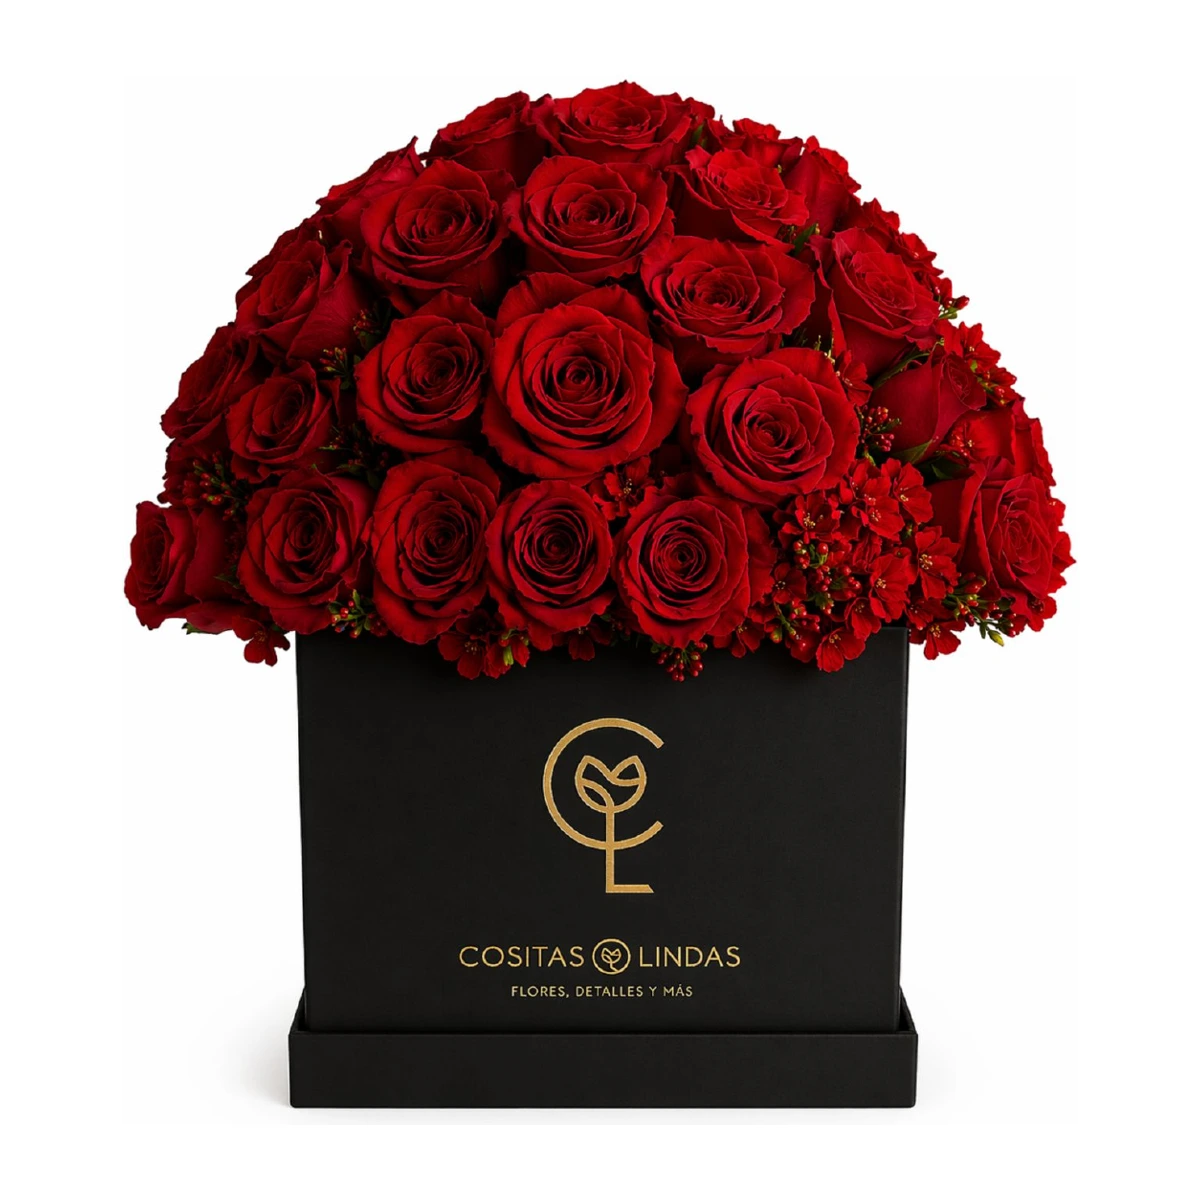
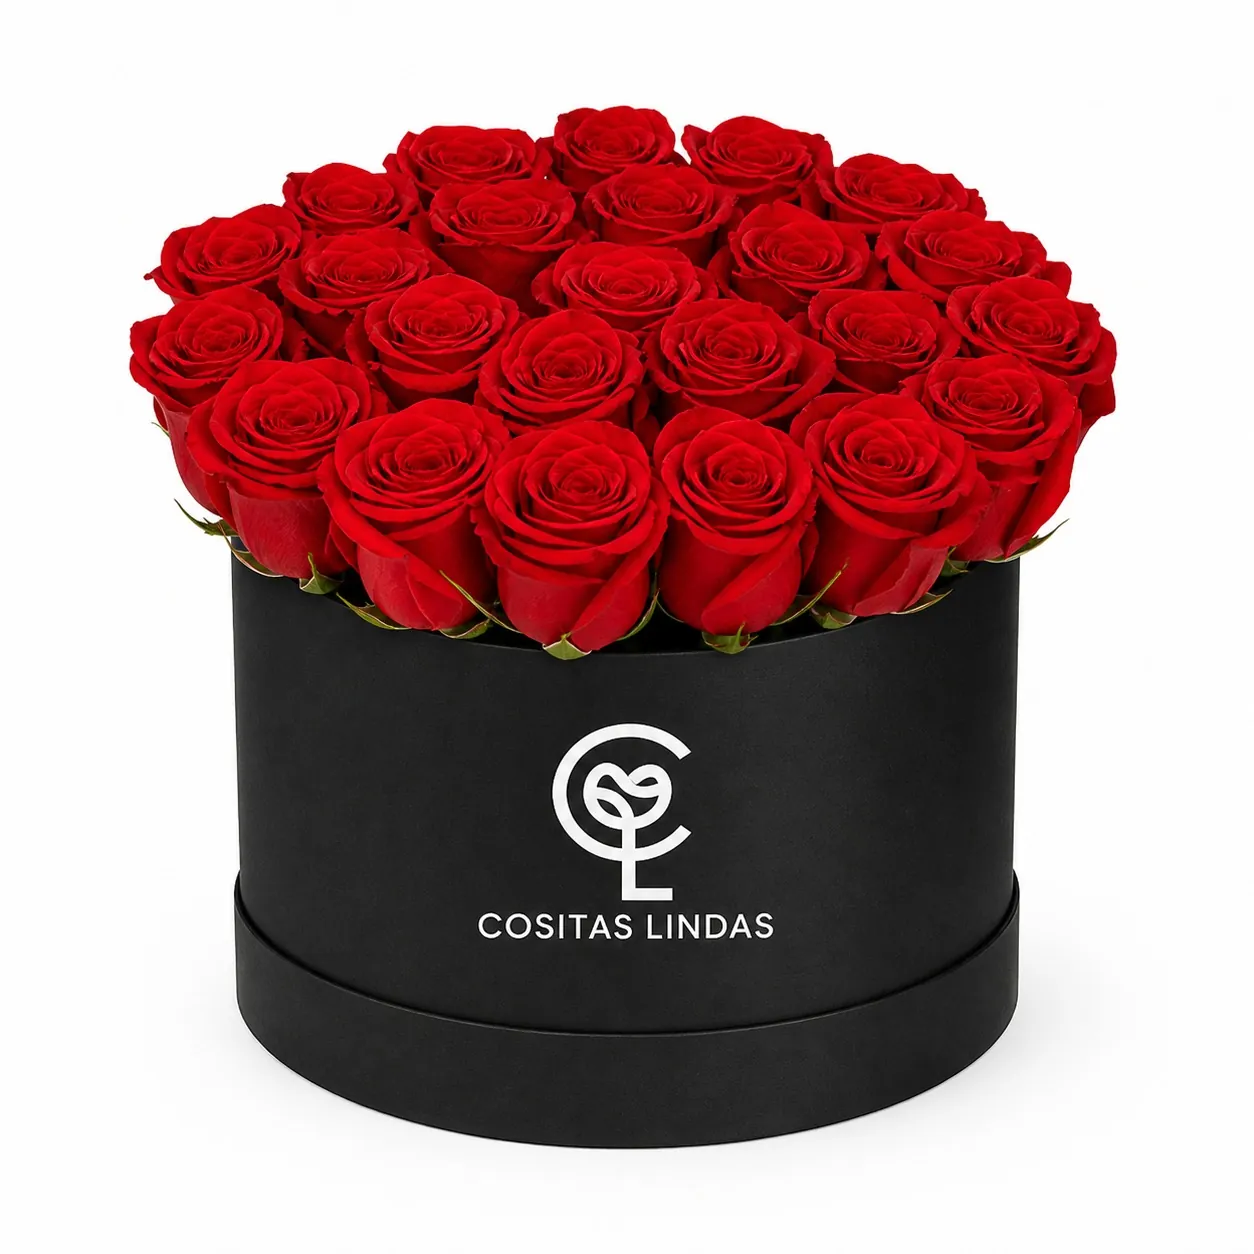
commit 02052026 - modificando imagen box 24 rosas y precio box 12 rosas

diff --git a/src/pages/Index.tsx b/src/pages/Index.tsx
@@ -94,7 +94,7 @@ const products: Product[] = [
   { id: "box-30-tul", name: "Box 30 Tulipanes", category: "Boxes", price: 350, description: "Impactante box con 30 tulipanes rojos llenos de vida.", image: box30Tul },
   { id: "box-radiante", name: "Box Radiante", category: "Boxes", price: 220, description: "Arreglo floral elegante con lirios frescos en tonos rosados, ideal para sorprender.", image: boxRadiante },
   { id: "box-15-gir", name: "Box 15 Girasoles", category: "Boxes", price: 120, description: "Box vibrante con girasoles frescos que transmiten alegría y energía.", image: box15Gir },
-  { id: "box-12-rosas", name: "Box 12 Rosas", category: "Boxes", price: 150, description: "Clásico box de rosas rojas, perfecto para expresar amor y pasión.", image: box12Rosas },
+  { id: "box-12-rosas", name: "Box 12 Rosas", category: "Boxes", price: 120, description: "Clásico box de rosas rojas, perfecto para expresar amor y pasión.", image: box12Rosas },
   { id: "box-24-rosas", name: "Box 24 Rosas", category: "Boxes", price: 160, description: "Box de 24 rosas frescas y luminosas.", image: box24Rosas },
 
   // RAMOS